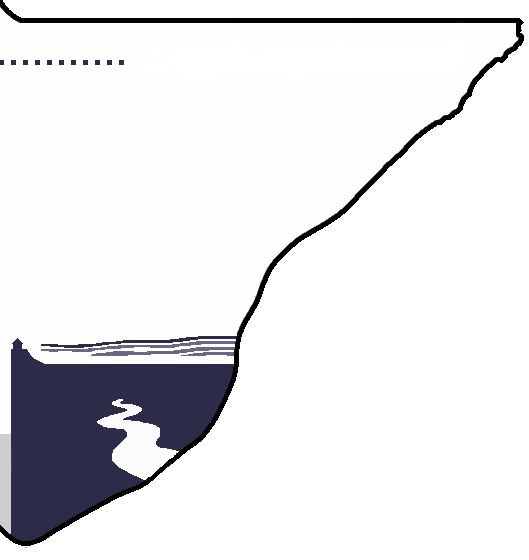
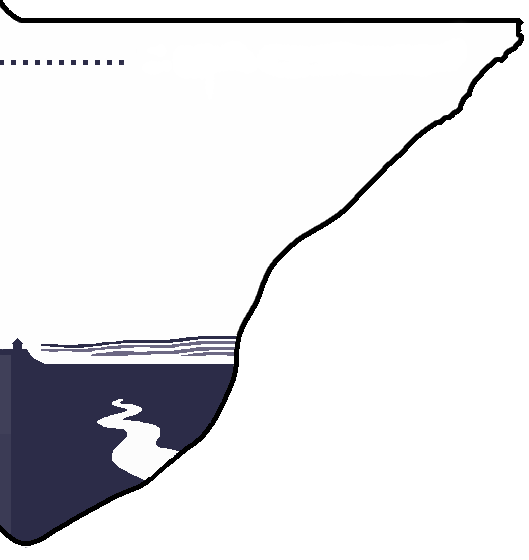
minor fixes

Changed region(s): [[0.0, 0.6071, 0.0302, 0.9714]]

diff --git a/index2.html b/index2.html
@@ -93,7 +93,7 @@
 	<span data-toggle="modal" data-target="#myModal3"><img style="width: 22.22%; height: 44.87%; border-width: 0px;" class="tx-grow" id="topright-grow" alt=" " src="img/grow/slice_0_3-label.png"/></span>
 	
 	<span data-toggle="modal" data-target="#myModal4"><img style="width: 27.40%; height: auto; border-width: 0px;" class="tx-grow" id="farleft-grow" alt=" " src="img/grow/slice_1_0-label.png"/></span>
-	<span data-toggle="modal" data-target="#myModal5"><img style="width: 23.26%; height: auto; border-width: 0px;" class="tx-grow"id="left-grow" alt=" " src="img/grow/slice_1_1-label.png"/></span>
+	<span data-toggle="modal" data-target="#myModal5"><img style="width: 23.26%; height: auto; border-width: 0px;" class="tx-grow"id="left-grow" alt=" " src="img/grow/slice_1_1-label2.png"/></span>
 	<img style="width: 27.09%; height: auto; border-width: 0px;" id="center-grow" class="tx-grow2" alt=" " src="img/grow/slice_1_2-label.png"/>
 	<span data-toggle="modal" data-target="#myModal6"><img style="width: 22.22%; height: auto; border-width: 0px;" class="tx-grow" id="right-grow" alt=" " src="img/grow/slice_1_3-label.png"/></span>
 	
@@ -119,8 +119,12 @@
 				</td>
 				<td><div>
 				  <img style="width:100%; height:auto;" src="img/img1_2.png"/>
-				  <h1 style="text-transform: uppercase; color:#ab3033; font-size: 26px; font-weight: bold;">If Texas were a Nation</h1>
-				  <h2 style="text-transform: uppercase; font-size: 20px;">it would be the 10th largest economy in the world</h2>
+					 <a class="tx-info" href="http://bxjmag.com/texas-10th-largest-economy-in-the-world/" target="_blank">
+					   <div class="modal1txt">
+					     <h1 style="text-transform: uppercase; color:#ab3033; font-size: 26px; font-weight: bold;">If Texas were a Nation</h1>
+					     <h2 style="color: black; text-transform: uppercase; font-size: 20px;">it would be the 10th largest economy in the world</h2>
+					   </div>
+					 </a>
 				</div></td>
 			  </tr>
 			</table>
@@ -128,16 +132,21 @@
 			<hr class="word" style=" width: 100%; border-top: dotted 20px; margin-top: -1.5%;" /> 
 			
 				<h3 style="text-transform: uppercase; font-size: 14px;">But our size isn't the only reason global companies-including 
-					<span style="font-weight: bold; color:#ab3033;">50 fortune 500 companies</span> 
-					and <span style="font-weight: bold; color:#ab3033;">2.5 million small businesses</span>-choose to 
-					<span style="font-weight: bold; color:#ab3033;">go big in texas</span>. The lone star state offers 
-					a <span style="font-weight: bold; color:#ab3033;">skilled workforce of 13+ million people,</span> 
+					<a href="https://businessintexas.com/sites/default/files/05/04/16/texasfortune500.pdf" target="_blank">
+					<span style="font-weight: bold; color:#ab3033;">50 fortune 500 companies</span></a>
+					and <a href="https://www.sba.gov/sites/default/files/advocacy/2018-Small-Business-Profiles-TX.pdf" target="_blank">
+					<span style="font-weight: bold; color:#ab3033;">2.5 million small businesses</span></a>-choose to 
+					<a href="https://businessintexas.com/" target="_blank"><span style="font-weight: bold; color:#ab3033;">go big in texas</span></a>. The lone star state offers 
+					a <a href="https://businessintexas.com/why-texas/skilled-workforce" target="_blank">
+					<span style="font-weight: bold; color:#ab3033;">skilled workforce of 13+ million people,</span></a>
 					a business-friendly tax climate and one of the 
 					nation's top deal-closing incentive programs. </h3>
 					
-				<h3 style="text-transform: uppercase; font-size: 14px;"> Add that to our <span style="font-weight: bold; color:#ab3033;">
-					central north american location, world-class infrastructure</span> and <span style="font-weight: bold; color:#ab3033;">
-					high quality of life</span> and it's no wonder boeing, charles schwab, exxonmobil, hulu, kubota, sabic, 
+				<h3 style="text-transform: uppercase; font-size: 14px;"> Add that to our <a href="https://businessintexas.com/why-texas/infrastructure" target="_blank">
+					<span style="font-weight: bold; color:#ab3033;">
+					central north american location, world-class infrastructure</span></a> and <a href="https://businessintexas.com/why-texas/quality-life" target="_blank">
+					<span style="font-weight: bold; color:#ab3033;">
+					high quality of life</span></a> and it's no wonder boeing, charles schwab, exxonmobil, hulu, kubota, sabic, 
 					toyota and many more recently chose to expand in texas. </h3>
 		  
 		  </div>
@@ -260,9 +269,22 @@
 	  </div>
 	  
 	  <!-- <div id="modal4-bg" class="bubbles" style="margin: auto; width: 50%; height: 25%; position: relative; top: 10%; left: 20%; text-align: center;"></div>	 -->
-	  <div id="modal4-bg1"></div>
-	  <div id="modal4-bg2"></div>
-	  <div id="modal4-bg3"></div>	  
+	  <div id="modal4-bg1">
+	    <a style="height: 50%" class="tx-info" href="http://www.texasagriculture.gov/About/TexasAgStats.aspx" target="_blank"></a>
+	    <a style="height: 48%" class="tx-info" href="https://tpwd.texas.gov/state-parks/state-parks-list.phtml" target="_blank"></a>
+	  </div>
+	  
+	  <div id="modal4-bg2">
+	    <a class="tx-info" href="https://www.texasmonthly.com/food/where-to-eat-now-2017/" target=" target="_blank"></a>
+	  </div>
+	  
+	  <div id="modal4-bg3"> 
+	    <a class="tx-info" href="https://www.traveltexas.com/cities-regions/gulf-coast" target="_blank"></a>
+	  </div>
+	  
+	  <div id="modal4-bg4">
+	    <a class="tx-info" href="https://tpwd.texas.gov/landwater/water/habitats/rivers/" target="_blank"></a>
+	  </div>
 	  
     </div>
 	
@@ -333,10 +355,18 @@
 			<table class="slide-top" style="margin-left: -20px; margin-top: -10px;"><tr>
 				<td><img style="width:auto; height:75px;" src="img/img6_1.png"/></td>
 				<td style="margin-left: -1%;"><span style="text-transform: uppercase; font-size: 9px; font-weight: bold;">
-					<p style="margin: 5px;">2nd Largest civilian workforce in America</p>
-					<p style="margin: 5px;">10 <!-- Texas --> Universites are top-ranked by U.S. news & world report 2018</p>
-					<p style="margin: 5px;">37 public universites and upper-division centers keep Texas on top </p>
-					<p style="margin: 5px;">50 community college districts fuel texas' talent pipeline</p></span></td>
+					<a class="tx-info2" href="https://businessintexas.com/sites/default/files/07/24/17/fastfacts.pdf" target="_blank">
+					  <p style="margin: 5px;">2nd Largest civilian workforce in America</p>
+					</a>
+					<a class="tx-info2" href="https://www.usnews.com/best-colleges/tx" target="_blank">
+					  <p style="margin: 5px;">10 <!-- Texas --> Universites are top-ranked by U.S. news & world report 2018</p>
+					</a>
+					<a class="tx-info2" href="http://www.txhighereddata.org/Interactive/Institutions.cfm" target="_blank">
+					  <p style="margin: 5px;">37 public universites and upper-division centers keep Texas on top </p>
+					</a>
+					<a class="tx-info2" href="https://www.tacc.org/documents/CTCSer_000.pdf" target="_blank">
+					  <p style="margin: 5px;">50 community college districts fuel texas' talent pipeline</p></span></td>
+					</a>
 			</tr></table>
 			  
 			 <br>
@@ -359,20 +389,31 @@
 				<div style="width: 90%; text-transform: uppercase;">
 				<table class="modal6-text3">
 				  <tr>
-					<td><h3 style="margin: 2px; font-size: 12px; font-weight: bold;"><span style="color:#dc6859; font-size: 14px;">#1</span> Exporter for 16 consecutive years</h3>
-						<h3 style="margin: 2px; font-size: 12px; font-weight: bold;"><span style="color:#dc6859; font-size: 14px;">380</span> Airports serve Texas travelers</h3></td>
+					<td>
+					  <a class="tx-info2" href="https://businessintexas.com/international/trade-exports" target="_blank">
+					    <h3 style="margin: 2px; font-size: 12px; font-weight: bold;"><span style="color:#dc6859; font-size: 14px;">#1</span> Exporter for 16 consecutive years</h3>
+					  </a>
+					  <a class="tx-info2" href="https://www.txdot.gov/inside-txdot/division/aviation/airport-directory-list.html" target="_blank">
+					    <h3 style="margin: 2px; font-size: 12px; font-weight: bold;"><span style="color:#dc6859; font-size: 14px;">380</span> Airports serve Texas travelers</h3></td>
+					  </a>
 					<td><img style="width:auto; height:40px;" src="img/img6_2.png"/></td>
 				  </tr>
 				</table>
 				
 				<table style="margin-left: -20px; margin-top: -4%;"><tr>
 				  <td><img id="modal6-img5" style="width:35px; height: auto; margin-bottom:-50%;" src="img/img6_3.png"/></td>
-				  <td><h3 style="font-size: 12px; font-weight: bold;"><span style="color:#dc6859; font-weight; bold;">10,425</span> Miles of freight rail, more than any state</h3></td>
+				  <td><a class="tx-info2" href="https://www.artba.org/wp-content/uploads/2016/08/econ_profile_2015_Texas.pdf" target="_blank">
+						<h3 style="font-size: 12px; font-weight: bold;"><span style="color:#dc6859; font-weight; bold;">10,425</span> Miles of freight rail, more than any state</h3>
+				  </a></td>
 				  <td><img id="modal6-img5" style="width:35px; height: auto; margin-bottom: -50%;" src="img/img6_3.png"/></td>
 				</tr></table>
 				
-				<h3 style="margin-left: 10px; margin-top: 0; font-size: 12px; font-weight: bold;"><span style="color:#dc6859; font-size: 14px;">16</span> Seaports including 32 foreign trade zones (FTZ)</h3>
-				<h3 style="margin-left: 10px; margin-top: -2%; font-size: 12px; font-weight: bold;"><span style="color:#dc6859; font-size: 14px;">313,220+</span> Miles of public roads, more than any state</h3>
+				<a class="tx-info2" href="https://enforcement.trade.gov/ftzpage/letters/ftzlist-map.html#texas" target="_blank">
+				  <h3 style="margin-left: 10px; margin-top: 0; font-size: 12px; font-weight: bold;"><span style="color:#dc6859; font-size: 14px;">16</span> Seaports including 32 foreign trade zones (FTZ)</h3>
+				</a>
+				<a class="tx-info2" href="https://businessintexas.com/why-texas/infrastructure" target="_blank">
+				  <h3 style="margin-left: 10px; margin-top: -2%; font-size: 12px; font-weight: bold;"><span style="color:#dc6859; font-size: 14px;">313,220+</span> Miles of public roads, more than any state</h3>
+				</a>
 				
 				</div>
 			</div>

diff --git a/css/style.css b/css/style.css
@@ -6,6 +6,50 @@ body {
   overflow: hidden;
 }
 
+a.tx-info {
+	text-decoration: none;
+	color: black;
+	display:inline-block;
+    width:100%;
+    height:100%;
+}
+
+a.tx-info:hover {
+	text-decoration: none;
+	color: black;
+	/* background-color: #dc6859;
+	color: white; */
+	
+}
+
+a.tx-info2 {
+	color: black;
+	/* display:inline-block;
+    width:100%;
+    height:100%; */
+}
+
+a.tx-info2:hover {
+	color: black;
+	
+}
+
+.modal1txt {
+	-webkit-transition: all .2s ease-in;
+    -ms-transition: all .2s ease-in;
+    -moz-transition: all .2s ease-in;
+    transition: all .2s ease-in;
+	
+}
+
+div.modal1txt:hover{
+	text-decoration: none;
+	background-color: #c1a9f8;
+	border-radius: 5px;
+	padding: 3px;
+}
+
+
 .texas_center {
 	
     margin: auto;

diff --git a/css/modal-style.css b/css/modal-style.css
@@ -439,6 +439,17 @@
     animation-delay: 2s;
 }
 
+#modal4-bg4 {
+	margin: auto; 
+	width: 34%; 
+	height: 3.5%; 
+	position: relative; 
+	top: 15%; 
+	left: 19%; 
+	z-index: 5;
+}
+
+
 
 .bubbles {
 	/* display: inline-block; */
